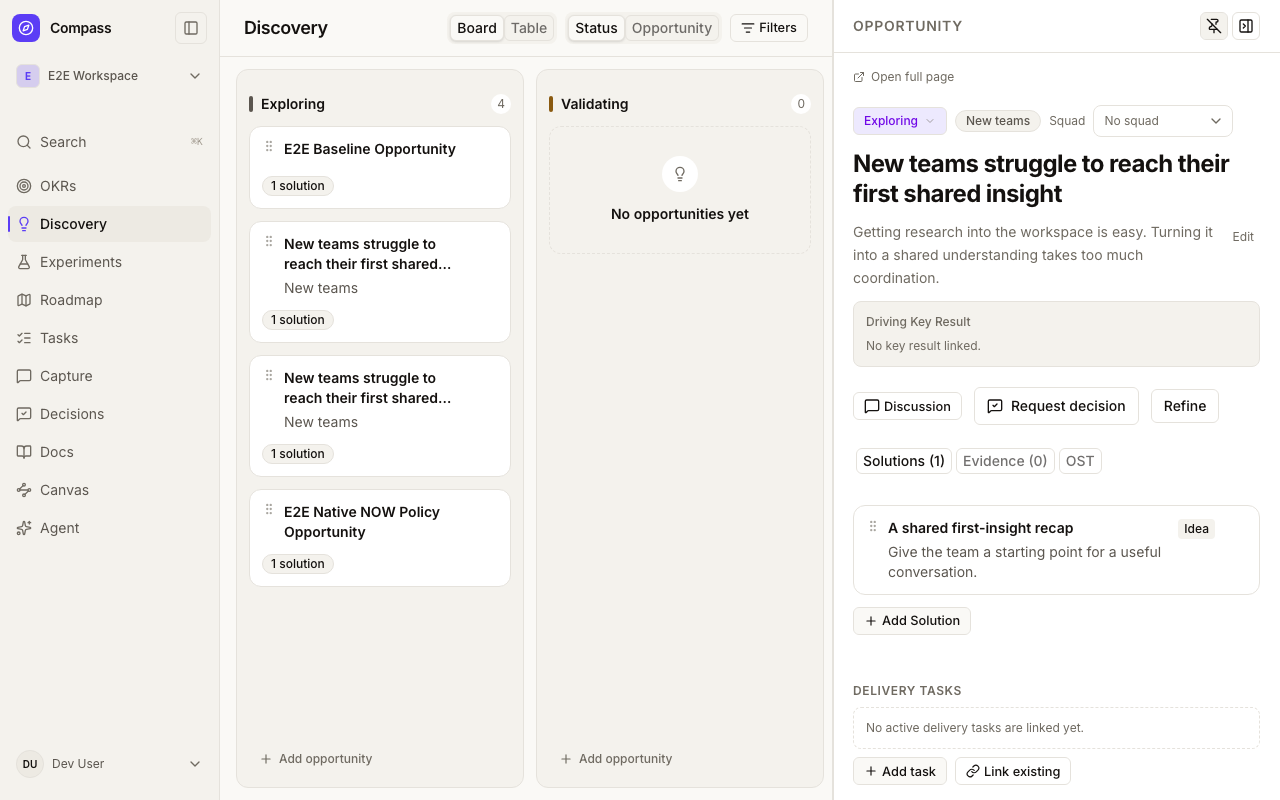
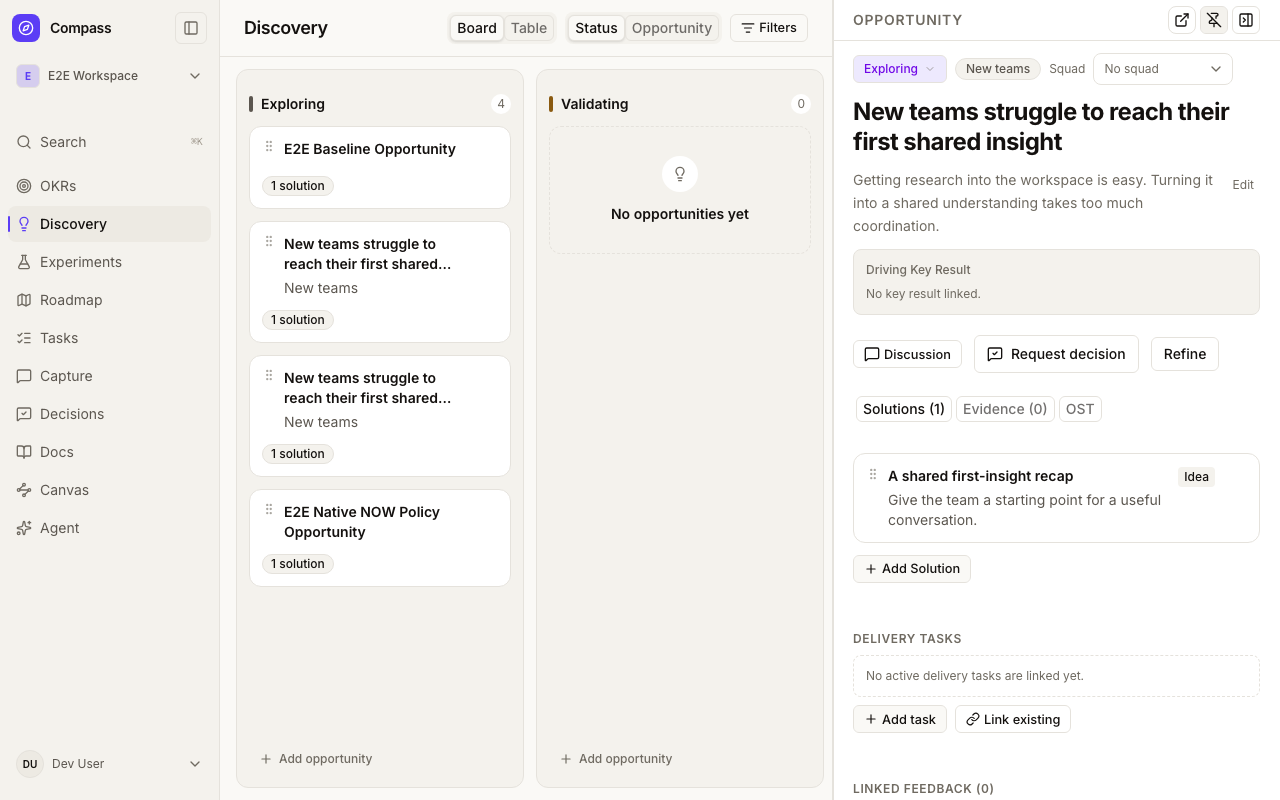
fix(discovery): match task panel compact full-page action

diff --git a/components/panels/panel-shell.tsx b/components/panels/panel-shell.tsx
@@ -164,11 +164,12 @@ export function PanelShell({ initialPin = DEFAULT_PANEL_PIN }: PanelShellProps =
   };
 
   const title = panel ? PANEL_TITLES[panel.type] ?? panel.type : "";
-  const isTask = panel?.type === "task";
-  const fullPageAction = isTask ? (
+  const fullPageRoute = panel?.type === "task" ? "tasks" : panel?.type === "opportunity" ? "discovery" : null;
+  const hasCompactHeader = fullPageRoute !== null;
+  const fullPageAction = fullPageRoute && panel ? (
     <Link
       className={buttonVariants({ variant: "ghost", size: "icon-sm" })}
-      href={`/${orgSlug}/${workspaceSlug}/tasks/${panel.id}`}
+      href={`/${orgSlug}/${workspaceSlug}/${fullPageRoute}/${panel.id}`}
       aria-label="Open full page"
       title="Open full page"
     >
@@ -250,7 +251,7 @@ export function PanelShell({ initialPin = DEFAULT_PANEL_PIN }: PanelShellProps =
           onCommit={commitWidth}
         />
 
-        <div className={`flex shrink-0 items-center justify-between gap-2 border-b px-5 ${isTask ? "py-1.5" : "py-3"}`}>
+        <div className={`flex shrink-0 items-center justify-between gap-2 border-b px-5 ${hasCompactHeader ? "py-1.5" : "py-3"}`}>
           <h2 className="text-sm font-semibold uppercase tracking-wider text-muted-foreground">
             {title}
           </h2>
@@ -269,7 +270,7 @@ export function PanelShell({ initialPin = DEFAULT_PANEL_PIN }: PanelShellProps =
           </div>
         </div>
 
-        <div className={`flex-1 overflow-y-auto ${isTask ? "pt-3" : "pt-4"}`}>{body}</div>
+        <div className={`flex-1 overflow-y-auto ${hasCompactHeader ? "pt-3" : "pt-4"}`}>{body}</div>
       </aside>
     );
   }
@@ -287,10 +288,10 @@ export function PanelShell({ initialPin = DEFAULT_PANEL_PIN }: PanelShellProps =
         // last, so it would silently replace `sheet-content` — the attribute
         // ~21 functional specs locate this panel by.
         className="w-full sm:max-w-md flex flex-col gap-0 p-0 z-[60]"
-        showCloseButton={!isTask}
+        showCloseButton={!hasCompactHeader}
       >
-        <SheetHeader className={isTask ? "px-5 py-1.5 shrink-0 border-b" : "px-5 pt-5 pb-3 shrink-0 border-b"}>
-          <div className={`flex items-center justify-between gap-2 ${isTask ? "" : "pr-8"}`}>
+        <SheetHeader className={hasCompactHeader ? "px-5 py-1.5 shrink-0 border-b" : "px-5 pt-5 pb-3 shrink-0 border-b"}>
+          <div className={`flex items-center justify-between gap-2 ${hasCompactHeader ? "" : "pr-8"}`}>
             <SheetTitle className="text-sm font-semibold text-muted-foreground uppercase tracking-wider">
               {title}
             </SheetTitle>
@@ -301,7 +302,7 @@ export function PanelShell({ initialPin = DEFAULT_PANEL_PIN }: PanelShellProps =
             <div className="flex items-center gap-1">
               {fullPageAction}
               <div className="hidden lg:flex items-center">{pinToggle}</div>
-              {isTask && (
+              {hasCompactHeader && (
                 <Button variant="ghost" size="icon-sm" onClick={closePanel} aria-label="Close panel" title="Close panel">
                   <PanelRightClose aria-hidden />
                 </Button>
@@ -310,7 +311,7 @@ export function PanelShell({ initialPin = DEFAULT_PANEL_PIN }: PanelShellProps =
           </div>
         </SheetHeader>
 
-        <div className={`flex-1 overflow-y-auto ${isTask ? "pt-3" : "pt-4"}`}>{body}</div>
+        <div className={`flex-1 overflow-y-auto ${hasCompactHeader ? "pt-3" : "pt-4"}`}>{body}</div>
       </SheetContent>
     </Sheet>
   );

diff --git a/e2e/functional/specs/opportunity-detail.spec.ts b/e2e/functional/specs/opportunity-detail.spec.ts
@@ -43,6 +43,8 @@ test("opportunity discussion persists between full page and panel", async ({ pag
   await page.goto(`${base}/discovery?detail=opportunity:${id}`);
   const panel = page.locator('[data-slot="sheet-content"]');
   const panelDiscussion = panel.getByRole("region", { name: "Discussion", exact: true });
+  await expect(panel.getByRole("link", { name: "Open full page" })).toHaveCount(1);
+  await expect(panel.locator('[data-slot="sheet-header"]').getByRole("link", { name: "Open full page" })).toHaveAttribute("href", `${base}/discovery/${id}`);
   await expect(panelDiscussion.getByText("Test the shared recap with new teams.", { exact: true })).toBeVisible();
   await panelDiscussion.getByRole("button", { name: /Edit comment by / }).first().click();
   await panelDiscussion.getByRole("textbox", { name: /Edit comment by / }).fill("Test the shared recap this week.");
@@ -102,6 +104,8 @@ test("opportunity layout responds to available width without losing comment draf
   await page.screenshot({ path: "public/screenshots/docs/opportunity-detail-panel-desktop.png", fullPage: true, animations: "disabled", style: "nextjs-portal { visibility: hidden; }" });
   await page.getByRole("button", { name: "Pin panel", exact: true }).click();
   const pinned = page.locator('[data-slot="pinned-panel"]');
+  await expect(pinned.getByRole("link", { name: "Open full page" })).toHaveCount(1);
+  await expect(pinned.locator('[data-slot="opportunity-detail"]').getByRole("link", { name: "Open full page" })).toHaveCount(0);
   await expect(pinned.getByRole("region", { name: "Discussion", exact: true }).getByText("The interviews point to a gap in the handoff.", { exact: true })).toBeVisible();
   expect(await page.evaluate(() => document.documentElement.scrollWidth <= innerWidth)).toBe(true);
   await pinned.getByRole("button", { name: title, exact: true }).scrollIntoViewIfNeeded();

diff --git a/components/discovery/opportunity-detail.tsx b/components/discovery/opportunity-detail.tsx
@@ -4,7 +4,7 @@ import { useEffect, useId, useRef, useState, type ComponentProps } from "react";
 import { MessageSquare } from "lucide-react";
 import { Button } from "@/components/ui/button";
 import { Tabs, TabsList, TabsTrigger, TabsContent } from "@/components/ui/tabs";
-import { useEntityDetail, PanelSkeleton, PanelError, FullPageLink, Section, type EditContext } from "@/components/panels/panel-parts";
+import { useEntityDetail, PanelSkeleton, PanelError, Section, type EditContext } from "@/components/panels/panel-parts";
 import { Discussion } from "@/components/comments/discussion";
 import { usePanelContext } from "@/components/panels/panel-context";
 import { OpportunityHeader } from "./opportunity-header";
@@ -84,7 +84,6 @@ function OpportunityDetailBody({ opportunityId, orgSlug, workspaceSlug, variant,
     <div data-slot="opportunity-detail" data-variant={variant} className={`@container min-w-0 break-words pb-8 ${variant === "panel" ? "px-5" : ""}`}>
       <div className="flex min-w-0 flex-col gap-5">
         {error && <div role="alert" className="flex flex-wrap items-center gap-2 text-sm text-destructive">Could not refresh opportunity. Showing the last loaded details.<Button variant="outline" size="sm" onClick={refresh}>Retry refresh</Button></div>}
-        {variant === "panel" && <FullPageLink href={detailPath} />}
         <OpportunityHeader opportunity={data} squads={data.squads ?? []} availableKeyResults={data.availableKeyResults ?? []} revalidatePathStr={detailPath} edit={edit} onChanged={refresh} />
         <div className="flex flex-wrap items-center gap-3">
           {scoringModel && <ScoreBadge score={toScoreSummary(data.score, scoringModel)} scoringHref={`${detailPath}?tab=scoring`} />}

diff --git a/__tests__/components/panel-shell-pin.test.tsx b/__tests__/components/panel-shell-pin.test.tsx
@@ -142,6 +142,20 @@ afterEach(() => {
 // ── Mode selection ───────────────────────────────────────────────────────────
 
 describe("PanelShell mode selection", () => {
+  it.each([
+    ["opportunity", "discovery", true], ["opportunity", "discovery", false],
+    ["task", "tasks", true], ["task", "tasks", false],
+  ] as const)("keeps one compact %s full-page action beside pin and close (%s, pinned=%s)", async (type, route, pinned) => {
+    panelState = { type, id: "entity-1" };
+    render(<PanelShell initialPin={{ pinned, width: PANEL_WIDTH_DEFAULT }} />);
+    const link = await screen.findByRole("link", { name: "Open full page" });
+    expect(screen.getAllByRole("link", { name: "Open full page" })).toHaveLength(1);
+    expect(link).toHaveAttribute("href", `/acme/product/${route}/entity-1`);
+    expect(link).toHaveTextContent("");
+    expect(link.parentElement).toContainElement(screen.getByRole("button", { name: pinned ? "Unpin panel" : "Pin panel" }));
+    expect(link.parentElement).toContainElement(screen.getByRole("button", { name: "Close panel" }));
+    expect(link.closest(pinned ? '[data-slot="pinned-panel"]' : '[data-slot="sheet-header"]')).not.toBeNull();
+  });
   it("puts the accessible task full-page action beside pin and close", () => {
     panelState = { type: "task", id: "task-1" };
     render(<PanelShell initialPin={{ pinned: true, width: PANEL_WIDTH_DEFAULT }} />);

diff --git a/__tests__/components/opportunity-relationships.test.tsx b/__tests__/components/opportunity-relationships.test.tsx
@@ -78,6 +78,7 @@ describe("opportunity relationships", () => {
     expect(screen.getByRole("tab", { name: "OST" })).toBeVisible();
     expect(screen.queryByRole("tab", { name: "Scoring" })).not.toBeInTheDocument();
     expect(screen.getByText("Discussion for opp")).toBeVisible();
+    expect(screen.queryByRole("link", { name: "Open full page" })).not.toBeInTheDocument();
   });
   it("shows the same discussion and enabled scoring tab on the full page", () => {
     detail.data = { ...opportunity, workspaceId: "ws", solutions: [], evidence: [], feedback: [], deliveryTasks: [], linkableTasks: [], members: [], workspace: { scoringConfig: { scoringModel: { id: "model", name: "Test model", version: 1, metrics: [] } } } };

diff --git a/docs/content/14-detail-panel.md b/docs/content/14-detail-panel.md
@@ -82,7 +82,7 @@ You don't have to open the full page to make a quick change. In the panel you ca
 
 Changes save immediately. For anything deeper, use **Open full page** at the top of the panel.
 
-Task panels keep **Open full page** as an icon beside the pin and close controls.
+Task and opportunity panels keep **Open full page** as a compact icon beside the pin and close controls, in both floating and pinned panels.
 Their compact summary puts status, priority, assignee, and due date below the title;
 expand **More properties** below subtasks for the remaining task fields.
 
